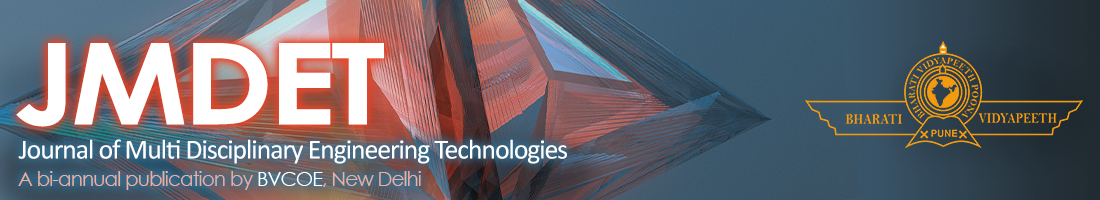
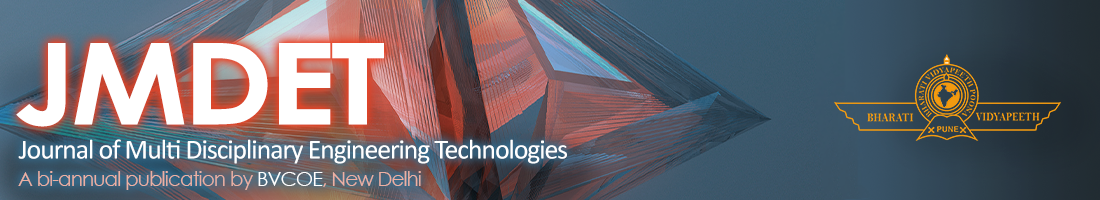
lkjsad

Changed region(s): [[0.7109, 0.21, 0.9891, 0.75]]

diff --git a/jmdet.org/index.html b/jmdet.org/index.html
@@ -60,13 +60,13 @@
 				<p><h4>ISSN: 0974-1771</h4></p>
 				<p><hr style="width:80%;"></p>
 				<p><marquee behavior="scroll" scrollamount=3 direction="up" onmouseover="this.setAttribute('scrollamount', 0);" onmouseout="this.setAttribute('scrollamount',3);">
-					<p><a href="#">JMDET invites paper from various engineering disciplines for Vol. 8 Issue 1 (Jan-June 2014) issue. Submit Now</a></p>
+					<p><a href="#" style="color:#666" >JMDET invites paper from various engineering disciplines for Vol. 8 Issue 1 (Jan-June 2014) issue. Submit Now</a></p>
 					<p>Successful Papers will be publish after author registration, w.e.f. July 2014</p>
 						<hr style="width:55%;">
 					<p><a href="http://www.bvcoend.ac.in/"><img src="img/pic1.jpg" width="250" height="100" alt="" /></a></p>
 						<hr style="width:55%;">
-					<p><a href="http://www.bharatividyapeeth.edu/default.htm"><img src="img/pic2.png" width="200" height="100" alt="" /></a></p>
-						<hr style="width:55%;">
+					<p><a href="http://www.bharatividyapeeth.edu/default.htm"><img src="img/pic2.png" height="100" alt="" /></a></p>
+						
 				</marquee></p>
 				<p><hr style="width:80%;"></p>
 				
